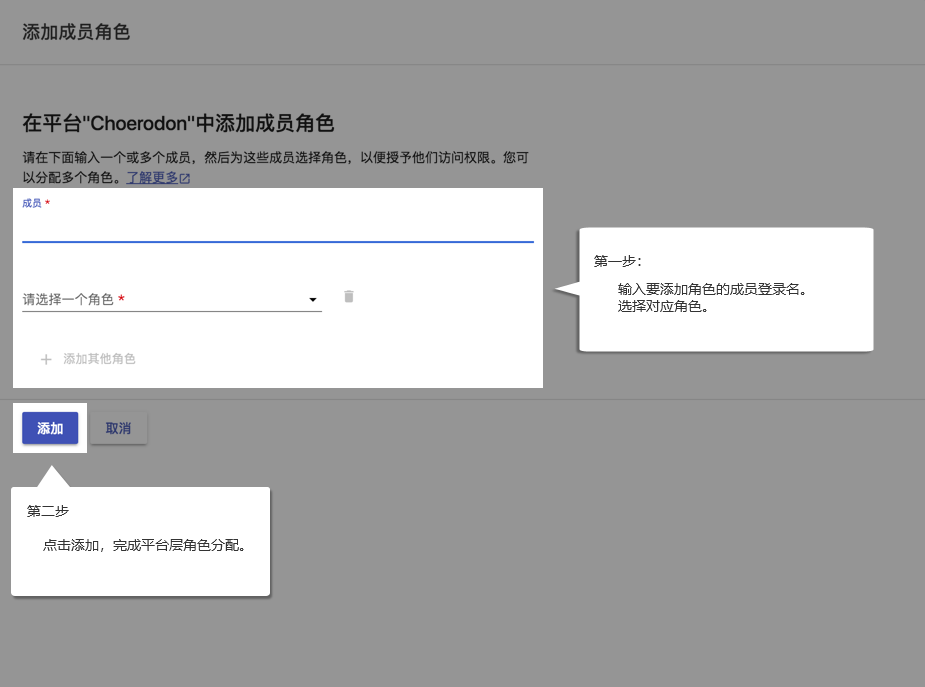
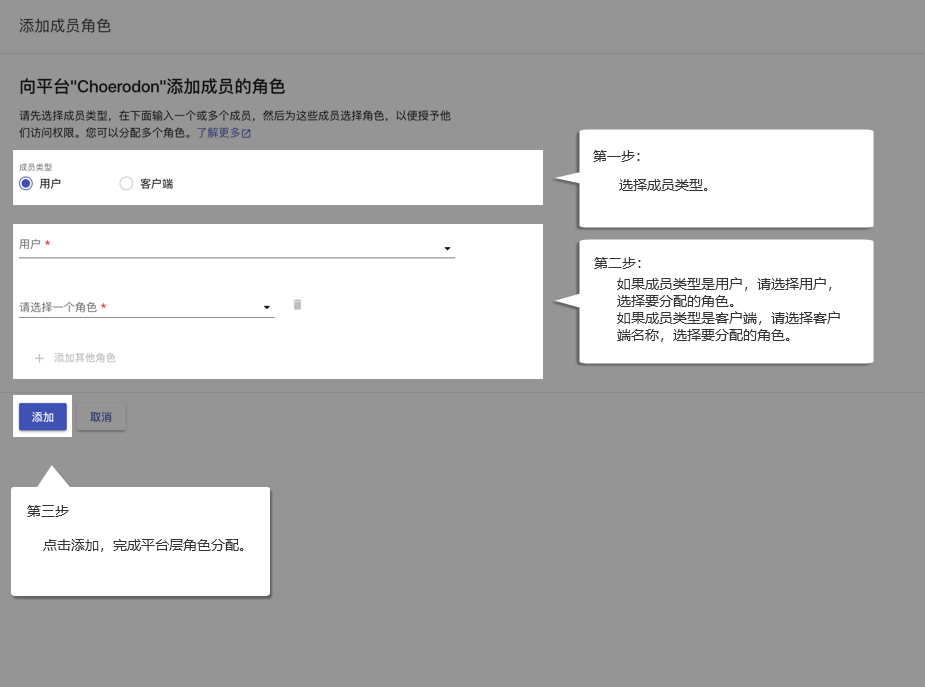
[IMP] 修改教程

diff --git a/iam/src/app/iam/guide/SiteBasic/index.js b/iam/src/app/iam/guide/SiteBasic/index.js
@@ -161,8 +161,12 @@ export default class SiteBasic extends Component {
                 </GuideMask>
               </Timeline.Item>
               <Timeline.Item>
+                <p>点击<GuideMask highLight="icon-arrow_drop_down" level={3} idx={1} siteLevel="site" route="/iam/member-role">成员类型选择框</GuideMask>，切换您要进行角色分配的成员类型。</p>
+              </Timeline.Item>
+              <Timeline.Item>
                 <p>点击 <GuideMask highLight="icon-playlist_add" level={1} siteLevel="site" route="/iam/member-role">添加</GuideMask>按钮。 </p>
                 <ul className="ul1">
+                  <li>首先，选择成员类型</li>
                   <li>输入要添加角色的成员登录名。</li>
                   <li>选择对应角色</li>
                   <li>点击添加按钮完成角色分配</li>
@@ -260,7 +264,6 @@ export default class SiteBasic extends Component {
             <p><a href="http://v0-10.choerodon.io/zh/docs/user-guide/system-configuration/platform/menu_configuration/" target="_blank">菜单配置<Icon type="open_in_new" /></a> 用于配置平台菜单</p>
             <p><a href="http://v0-10.choerodon.io/zh/docs/user-guide/system-configuration/platform/dashboard-config/" target="_blank">仪表盘配置<Icon type="open_in_new" /></a> 用于预置用户可见的仪表盘卡片</p>
             <p><a href="http://choerodon.io/zh/docs/user-guide/system-configuration/tenant/ldap/" target="_blank">LDAP<Icon type="open_in_new" /></a> 对组织应用的LDAP信息设置的管理</p>
-            <p>或者了解如何在完成系统配置之后进行其他Choerodon产品功能。</p>
           </div>
         );
     }
